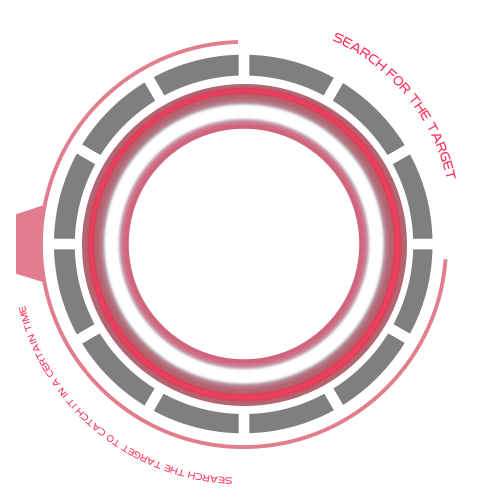
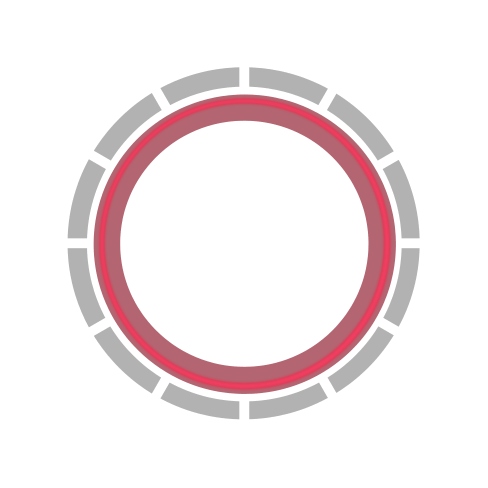
修改瞄准框

diff --git a/android/src/com/rtmap/game/util/NetUtil.java b/android/src/com/rtmap/game/util/NetUtil.java
@@ -1,8 +1,20 @@
 package com.rtmap.game.util;
 
+import android.content.Context;
+import android.net.ConnectivityManager;
+import android.net.NetworkInfo;
+
 import com.badlogic.gdx.Gdx;
 import com.badlogic.gdx.Net;
 import com.badlogic.gdx.net.HttpRequestBuilder;
+import com.rtmap.game.AndroidLauncher;
+
+import java.io.BufferedReader;
+import java.io.IOException;
+import java.io.InputStream;
+import java.io.InputStreamReader;
+import java.net.HttpURLConnection;
+import java.net.URL;
 
 /**
  * Created by yxy on 2017/3/9.
@@ -28,6 +40,75 @@ public class NetUtil {
     }
 
     /**
+     * 检测网络连接
+     *
+     * @return
+     */
+    public  boolean checkConnection() {
+        ConnectivityManager connectivityManager = (ConnectivityManager) AndroidLauncher
+                .getInstance().getSystemService(Context.CONNECTIVITY_SERVICE);
+        NetworkInfo networkInfo = connectivityManager.getActiveNetworkInfo();
+        if (networkInfo != null) {
+            return networkInfo.isAvailable();
+        }
+        return false;
+    }
+
+    /**
+     * Get方式请求
+     *
+     * @param url
+     * @return
+     */
+    public void getConnection(String url, HttpResponse httpResponse) {
+        try {
+            URL u = new URL(url);
+            HttpURLConnection conn = (HttpURLConnection) u.openConnection();
+            conn.setRequestMethod("GET");
+            conn.setConnectTimeout(60000);
+            conn.setRequestProperty("Content-Type",
+                    "application/json;charset=UTF-8");
+            conn.connect();
+            if (conn.getResponseCode() == 200) {
+                InputStream is = conn.getInputStream();
+                if (httpResponse != null) {
+                    httpResponse.responseString(convertStreamToString(is));
+                }
+            } else {
+                if (httpResponse != null)
+                    httpResponse.responseFail();
+            }
+        } catch (Exception e) {
+            e.printStackTrace();
+            if (httpResponse != null)
+                httpResponse.responseFail();
+        }
+    }
+
+    /**
+     * 将InputStream转换成某种字符编码的String
+     *
+     * @return
+     * @throws Exception
+     */
+    public synchronized String convertStreamToString(InputStream is) {
+        BufferedReader reader = new BufferedReader(new InputStreamReader(is));
+        StringBuilder sb = new StringBuilder();
+
+        String line = null;
+        try {
+            while ((line = reader.readLine()) != null) {
+                sb.append(line + "\n");
+            }
+            is.close();
+            reader.close();
+        } catch (IOException e) {
+            e.printStackTrace();
+        }
+        return sb.toString();
+    }
+
+    /**
      * get请求
      * "http://182.92.31.114/rest/act/17888/15210420307"
      *
@@ -50,5 +131,11 @@ public class NetUtil {
     public void getPicture(String url, Net.HttpResponseListener responseListener) {
         Net.HttpRequest httpRequest = requestBuilder.newRequest().method(Net.HttpMethods.GET).url(url).build();
         Gdx.net.sendHttpRequest(httpRequest, responseListener);
+    }
+
+    public static interface HttpResponse {
+        void responseString(String response);
+
+        void responseFail();
     }
 }

diff --git a/android/src/com/rtmap/game/screen/CatchScreen.java b/android/src/com/rtmap/game/screen/CatchScreen.java
@@ -1,6 +1,7 @@
 package com.rtmap.game.screen;
 
 import android.content.Context;
+import android.text.TextUtils;
 
 import com.badlogic.gdx.Gdx;
 import com.badlogic.gdx.Net;
@@ -10,6 +11,7 @@ import com.badlogic.gdx.scenes.scene2d.Group;
 import com.badlogic.gdx.utils.Json;
 import com.badlogic.gdx.utils.viewport.ScreenViewport;
 import com.google.gson.Gson;
+import com.google.gson.JsonSyntaxException;
 import com.rtmap.game.AndroidLauncher;
 import com.rtmap.game.MyGame;
 import com.rtmap.game.actor.AgainActor;
@@ -228,17 +230,20 @@ public class CatchScreen extends MyScreen {
     }
 
     private void setResult() {
-        NetUtil.getInstance().get(Contacts.WIN_NET, new Net.HttpResponseListener() {
+        catActor.removeListener();
+        catActor.setIsShow(false);
+        NetUtil.getInstance().getConnection(Contacts.WIN_NET, new NetUtil.HttpResponse() {
             @Override
-            public void handleHttpResponse(Net.HttpResponse httpResponse) {
-                String resultAsString = httpResponse.getResultAsString();
-                Gdx.app.error("http", "handleHttpResponse  ==  " + resultAsString);
-                catActor.removeListener();
-                catActor.setIsShow(false);
-                Result result = new Gson().fromJson(resultAsString, Result.class);
-//                Result result = new Json().fromJson(Result.class, httpResponse.getResultAsStream());
-                Gdx.app.error("http", "result  ==  " + result.toString());
-                if ("0".equals(result.getCode())) {
+            public void responseString(String response) {
+                Gdx.app.error("http", "responseString  ==  " + response);
+
+                Result result = null;
+                try {
+                    result = new Gson().fromJson(response, Result.class);
+                } catch (JsonSyntaxException e) {
+                    e.printStackTrace();
+                }
+                if (result != null && "0".equals(result.getCode())) {
                     isWin = true;
                     catchActor.setIsWin(isWin);
                     catchActor.setData(result);
@@ -252,19 +257,14 @@ public class CatchScreen extends MyScreen {
             }
 
             @Override
-            public void failed(Throwable t) {
-                Gdx.app.error("http", t.getMessage());
-            }
-
-            @Override
-            public void cancelled() {
-                Gdx.app.error("http", "请求取消");
+            public void responseFail() {
+                isWin = false;
+                catchActor.setIsWin(isWin);
+                catchActor.setIsOpen(true);
+                againActor.setIsShow(!isWin);
+                closeActor.setIsShow(true);
             }
         });
-//        HttpRequestBuilder requestBuilder = new HttpRequestBuilder();
-//        Net.HttpRequest httpRequest = requestBuilder.newRequest().header("Content-Type",
-//                "application/json;charset=UTF-8").method(Net.HttpMethods.GET).url("http://182.92.31.114/rest/act/17888/15210420307").build();
-//        Gdx.net.sendHttpRequest(httpRequest, );
     }
 
     @Override

diff --git a/android/src/com/rtmap/game/actor/AimActor.java b/android/src/com/rtmap/game/actor/AimActor.java
@@ -92,12 +92,11 @@ public class AimActor extends Actor {
                 }
                 batch.draw(texReArray.get(1), aimWidth, aimHeight, texReArray.get(1).getRegionWidth(), texReArray.get(1).getRegionHeight());
                 for (int i = 0; i < number; i++) {
-                    if (delta < 0.5f && (number - 1) == i) {
-                        Gdx.app.error("gdx", "白块111111111111111111");
-                        batch.draw(mKeyFrames[2], aimWidth, aimHeight, mKeyFrames[2].getRegionWidth() / 2, mKeyFrames[2].getRegionHeight() / 2, mKeyFrames[2].getRegionWidth(), mKeyFrames[2].getRegionHeight(), getScaleX(), getScaleY(), degree - angle * i);
-                    } else {
+//                    if (delta < 0.5f && (number - 1) == i) {
+//                        batch.draw(mKeyFrames[2], aimWidth, aimHeight, mKeyFrames[2].getRegionWidth() / 2, mKeyFrames[2].getRegionHeight() / 2, mKeyFrames[2].getRegionWidth(), mKeyFrames[2].getRegionHeight(), getScaleX(), getScaleY(), degree - angle * i);
+//                    } else {
                         batch.draw(mKeyFrames[0], aimWidth, aimHeight, mKeyFrames[0].getRegionWidth() / 2, mKeyFrames[0].getRegionHeight() / 2, mKeyFrames[0].getRegionWidth(), mKeyFrames[0].getRegionHeight(), getScaleX(), getScaleY(), degree - angle * i);
-                    }
+//                    }
                 }
                 if (delta > 1f) {
                     delta = 0;
@@ -179,7 +178,6 @@ public class AimActor extends Actor {
 
         mKeyFrames[0] = new TextureRegion((Texture) assetManager.get("aim_blue.png"));
         mKeyFrames[1] = new TextureRegion((Texture) assetManager.get("aim_red.png"));
-        mKeyFrames[2] = new TextureRegion((Texture) assetManager.get("aim_white.png"));
     }
 
     @Override

diff --git a/android/src/com/rtmap/game/screen/LoadingScreen.java b/android/src/com/rtmap/game/screen/LoadingScreen.java
@@ -57,7 +57,6 @@ public class LoadingScreen extends MyScreen {
         mGame.asset.load("find_bg.png", Texture.class);
         mGame.asset.load("aim_fail.png", Texture.class);
         mGame.asset.load("aim_success.png", Texture.class);
-        mGame.asset.load("aim_white.png", Texture.class);
         mGame.asset.load("aim_red.png", Texture.class);
         mGame.asset.load("aim_blue.png", Texture.class);
         mGame.asset.load("find_center.png", Texture.class);
@@ -185,7 +184,6 @@ public class LoadingScreen extends MyScreen {
         mGame.asset.unload("find_bg.png");
         mGame.asset.unload("aim_fail.png");
         mGame.asset.unload("aim_success.png");
-        mGame.asset.unload("aim_white.png");
         mGame.asset.unload("aim_red.png");
         mGame.asset.unload("aim_blue.png");
         mGame.asset.unload("find_center.png");

diff --git a/android/src/com/rtmap/game/screen/MyScreen.java b/android/src/com/rtmap/game/screen/MyScreen.java
@@ -226,7 +226,7 @@ public abstract class MyScreen implements Screen {
 //                } else if (project.x < 0 && project.y <= 0) {
 //                    angle = -Math.asin(project.y / c) - 90;
 //                }
-
+                angle = Math.asin(project.x / c) * 180 / Math.PI;
                 Gdx.app.error("angle", "angle        " + angle);
                 if (texture != null) {
                     spriteBatch.begin();
